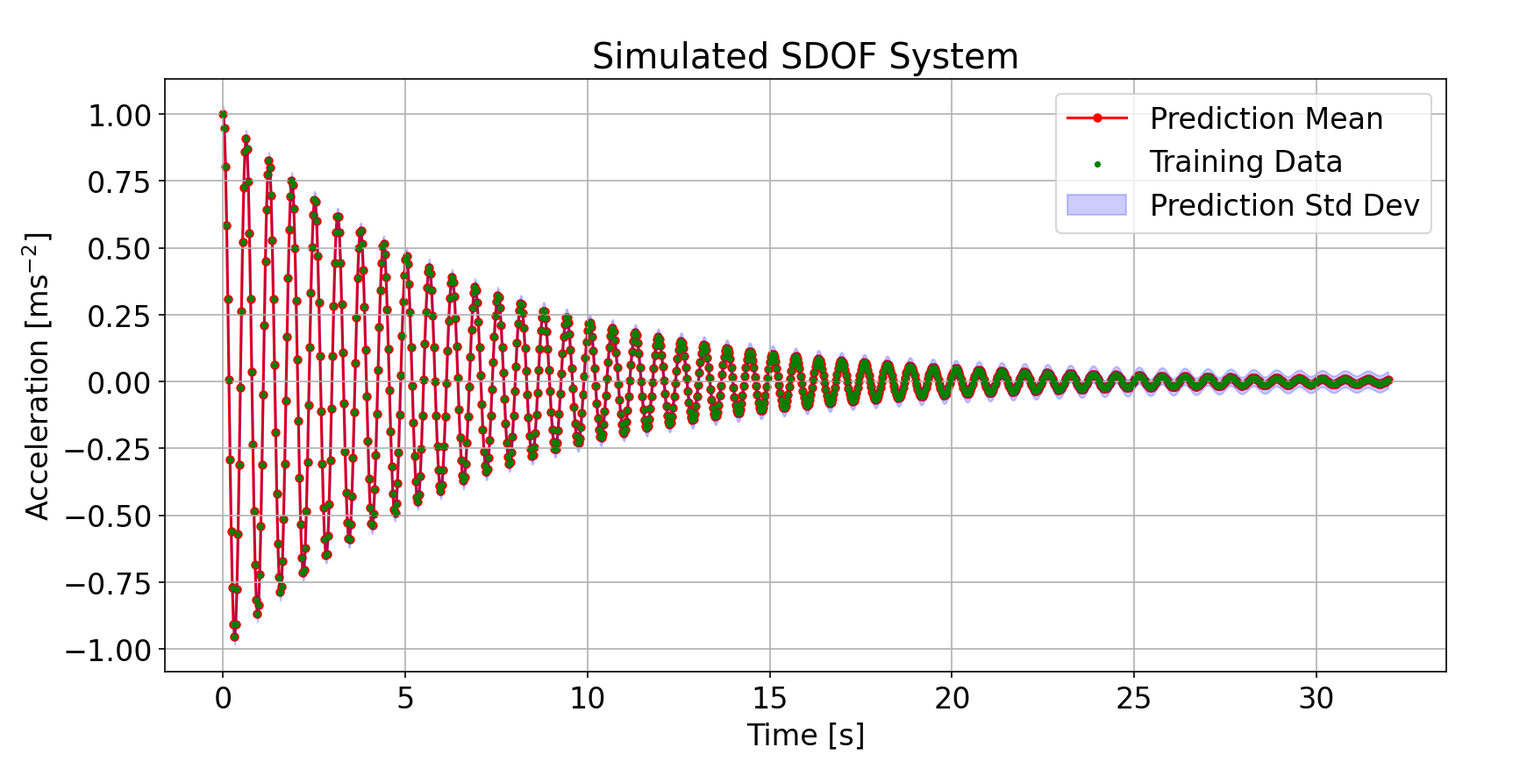
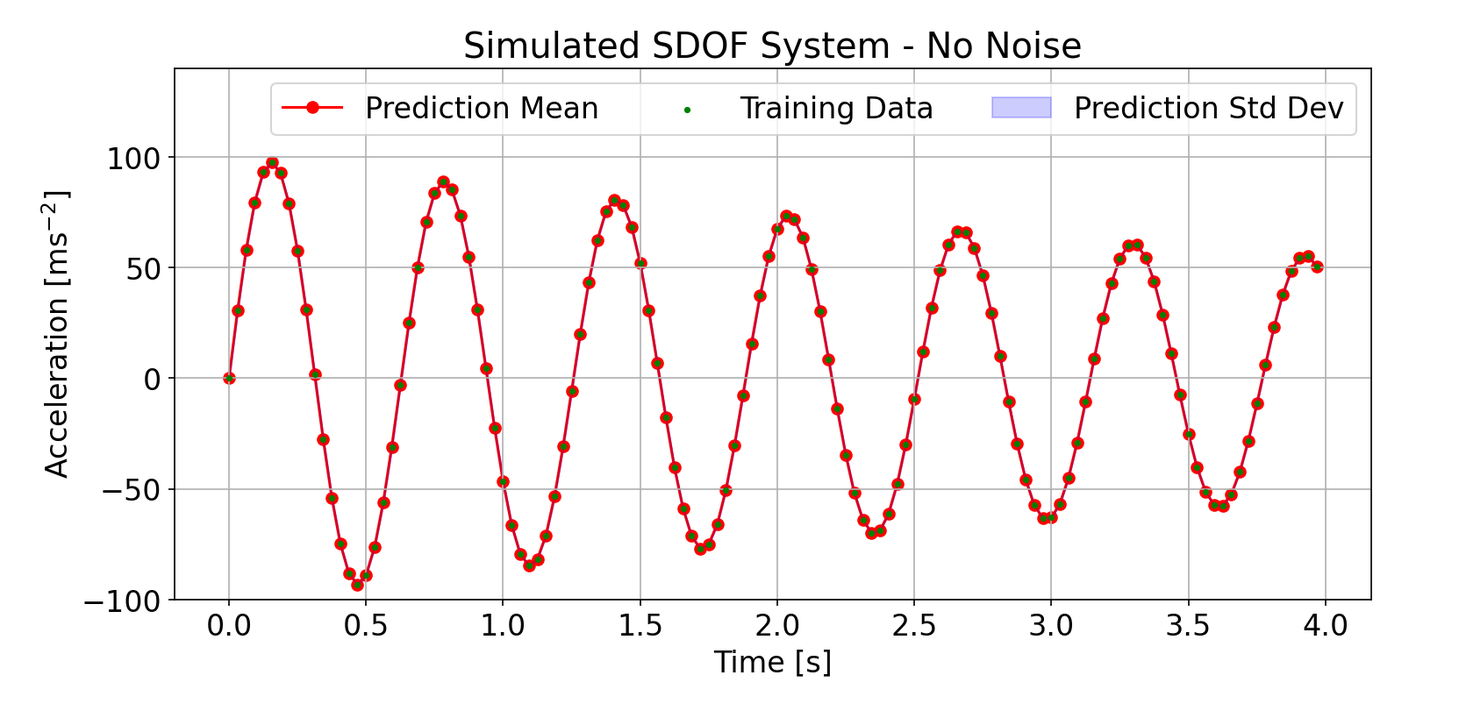
data replaced with new analytical fourier transforms

Changed region(s): [[0.0, 0.0305, 0.9507, 0.9768], [0.8894, 0.641, 0.9507, 0.7021], [0.0307, 0.2442, 0.0613, 0.2747]]

diff --git a/dissertation.tex b/dissertation.tex
@@ -99,6 +99,7 @@
 \usepackage{hyperref}
 \usepackage{hyperref}
 \usepackage{hyperref}
+\usepackage{hyperref}
 \counterwithin{figure}{section}
 \counterwithin{equation}{section}
 \counterwithin{table}{section}
@@ -362,8 +363,8 @@
     \nomenclature[G05]{$\boldsymbol{\Sigma}_{*\vert \mathbf{X}}$}{Conditional covariance of the Gaussian Process, given the training data, $\mathbf{X}$}
 
     Note that this GP is closed under the action of linear operators which means that it can be described using only a combination of operations that comply with the principle of superposition.
-    It is also defined in the continuous domain $(-\infty, \infty)$ so the Fourier Transform can be taken analytically without needing to resort to the discrete FFT\@.
-    Incredibly, since the Fourier Transform is also a linear operator~\cite{Jidling2017}, the result of this operation of the GP is yet another GP. The joint distribution of the two can therefore be written as shown in Equation~\ref{eq:linear-trans}
+    It is also defined in the continuous domain $(-\infty, \infty)$, so the Fourier Transform can be taken analytically without needing to resort to the discrete FFT\@.
+    Incredibly, since the Fourier Transform is a linear operator~\cite{Jidling2017}, the result of this operation on the GP is yet another GP. The joint distribution of the two can therefore be written as shown in Equation~\ref{eq:linear-trans}
 
     \begin{equation}
         \left[
@@ -393,9 +394,9 @@
     Like before, this distribution can be conditioned to find the conditional mean and covariance of the Fourier Transform at a specific set of desired frequencies, given the training data, $\mathbf{X}$.
 
 
-    Modelling signals in this way provides an inherent mechanism to account for uncertainty and allows this information to be preserved naturally in the covariance matrix when performing linear operations of the data.
+    Modelling signals in this way provides an inherent mechanism to account for uncertainty and allows this information to be preserved naturally in the covariance matrix when performing linear operations on the data.
     Furthermore, the noise term  $\epsilon_j \sim \mathcal{N}(0, \sigma^2_y)$ explicitly models the observational noise, giving the GP a way to distinguish between the signal and noise components.
-    This means that the use of probabilistic numerics may be advantageous since it could allow for Fourier Transform and other linear operators to be performed with better robustness to noise.
+    This means that the use of probabilistic numerics may allow better identification of dynamic systems since it may allow for Fourier Transform  (which such identification uses extensively) to be performed with better robustness to noise.
 
     \section{Aims and Objectives}
     \subsection{Aim}
@@ -419,24 +420,33 @@
     \section{Creating the Gaussian Process Model}
     The first objective was completed by implementing the Gaussian Process (GP) model in the programming language Python.
     \subsection{The Data}
-    To test the functionality of the GP model during its creation, a prototypical time series dataset was required.
-    For this, previously collected turbine tap test data~\cite{MEC326} was used.
-    Note that the data was collected empirically as opposed to being simulated in order to test that the GP has practical applications for fitting real life data which may have contained unforeseen complexities that may have been otherwise forgotten.
-    For example, since all real systems exhibit some form of damping, the magnitude of the vibrations decay over time.
-    However, if data was simulated, this behaviour may have been neglected, and a stationary signal may have been used instead, therefore, the performance of the GP's ability to fit real life data could not be tested.
+    Initially, training data was required to test the fit of the GP model during its creation.
+    For this, the acceleration of a single degree of freedom (SDOF) system in free vibration in the time domain was used.
+    If this data was collected experimentally, some noise would always be present, so instead it was simulated instead with system parameters $M = 1 \, kg$; $C = 0.3 \, Nsm^{-1}$; $K = 100 \, Nm^{-1}$.
+    This allowed the levels of noise to be reduced to zero, as shown in the plot of ``Training Data'' in Figure~\ref{fig:basic-data-time-domain}, to allow for a broader range of test cases.
 
-    The test data consisted of accelerometer data from the tip of a hammer as well as a single location on a turbine blade when struck at $10$ positions.
-    This was sampled at a rate of $16,384 Hz$ for just under $4$ seconds.
-    For simplicity, only the response data at the first position was imported, and initially a small set of $100$ samples was selected from the centre (to reduce computation time).
-    This time series acceleration data, as shown in the ``Force Response Over Time'' plot in Figure~\ref{fig:input-response-plot}, was used as training data to be fit by the GP\@.
 
-    \begin{figure}[ht]
+%    \begin{equation}
+%        \ddot{x}(t) = -X e^{-\zeta \xi_n t} \xi_n^2 \cos(\xi_d t + \phi) \label{eq:sdof-free-vib}
+%    \end{equation}
+%
+%    \noindent Where $\ddot{x}(t) is the acceleration$
+
+    \textcolor{red}{add equation of motion??}
+
+%    \begin{figure}[ht]
+%        \centering
+%        \includegraphics[width=1.0\linewidth]{figures/input-response-plot/input-response-plot.png}
+%        \caption{The time series training data, and the mean and standard deviation of the GPs prediction of its latent function. Note that the prediction functions are continuous but must be evaluated at a discrete set of points in order to be plotted.}
+%        \label{fig:input-response-plot}
+%    \end{figure}
+
+    \begin{figure}[h]
         \centering
-        \includegraphics[width=1.0\linewidth]{figures/input-response-plot/input-response-plot.png}
-        \caption{The time series training data, and the mean and standard deviation of the GPs prediction of its latent function. Note that the prediction functions are continuous but must be evaluated at a discrete set of points in order to be plotted.}
-        \label{fig:input-response-plot}
+        \includegraphics[width=1.0\linewidth]{figures/basic-data-time-domain/basic-data-time-domain.png}
+        \caption{The basic training dataset of time domain acceleration of a simulated SDOF system consisting of $128$ datapoints at a sample rate of $32 \, Hz$ using system parameters $M = 1 \, kg$; $C = 0.3 \, Nsm^{-1}$; $K = 100 \, Nm^{-1}$ with no noise added, and the time domain prediction functions of the GP model fit to this data.}
+        \label{fig:basic-data-time-domain}
     \end{figure}
-
 
 
     \subsection{The Kernel}
@@ -476,17 +486,26 @@
     This allowed the algorithm to explore after reaching a minimum to potentially find another part of the NLML function that was lower.
 
     \subsection{Predict Function}
-    The predict function was constructed, which accurately calculated the mean and standard deviation of the latent function as shown by the ``Prediction Mean'' and ``Prediction Std Dev'' plots in Figure~\ref{fig:input-response-plot} respectively.
+    The predict function was constructed, which accurately calculated the mean and standard deviation of the latent function as shown by the ``Prediction Mean'' and ``Prediction Std Dev'' plots in Figure~\ref{fig:basic-data-time-domain} respectively.
     The mean of each prediction point is calculated using Equation~\ref{eq:18.52} directly, whereas the standard deviation of each point uses only the main diagonal of the covariance matrix resulting from Equation~\ref{eq:18.53}, which is square rooted in order to find the standard deviation.
     In combination, this predict function defines the probability distribution of the value of the latent function at any point, given the training data.
-    Hence, when Gaussian noise was added to the training data, the standard deviation of the prediction became larger to take account for the uncertainty created by this noise, as shown in Figure~\ref{fig:input-response-noise}.
+    Hence, when Gaussian noise ($\sim \mathcal{N}(0, 25^{2})$) was added to the training data, the standard deviation of the prediction became larger to take account for the uncertainty created by this noise, as shown in Figure~\ref{fig:noisy-data-time-domain}.
 
-    \begin{figure}[ht]
+%    \begin{figure}[ht]
+%%        \centering
+%%        \includegraphics[width=1.0\linewidth]{figures/input-response-noise/input-response-noise.png}
+%%        \caption{The mean and standard deviation of the prediction function of the GP when noise was added to the training data, showing that the standard deviation of the prediction increases when noise is added.}
+%%        \label{fig:input-response-noise}
+%%    \end{figure}
+
+
+    \begin{figure}[h]
         \centering
-        \includegraphics[width=1.0\linewidth]{figures/input-response-noise/input-response-noise.png}
-        \caption{The prediction functions of the GP when noise was added to the training data, showing that the standard deviation of the prediction increased compared to Figure~\ref{fig:input-response-plot}.}
-        \label{fig:input-response-noise}
+        \includegraphics[width=1.0\linewidth]{figures/noisy-data-time-domain/noisy-data-time-domain.png}
+        \caption{The mean and standard deviation of the prediction function of the GP when noise was added to the training data, showing that the standard deviation of the prediction increases.}
+        \label{fig:noisy-data-time-domain}
     \end{figure}
+
 
     \section{Adjusting the Model for the Frequency Domain}
 
@@ -561,26 +580,20 @@
 
     \section{Results and discussion}
     After this Gaussian Process Model was complete, it could then be setup and used in a variety of test cases to explore its advantages and disadvantages versus the Fast Fourier Transform.
-
-    Here, the test data was constructed from the time domain acceleration of a simulated single degree of freedom (SDOF) system in free vibration because the system properties and the exact Fourier Transform of the latent function could be calculated analytically using the system parameters.
-    Since these were exact and known to be mathematically correct, they could be used to test how well the GP calculated them, using the performance of the FFT (using a Hanning window) on the same data as a benchmark.
+    The dataset used to do this was from the model of the acceleration of the SDOF system in free vibration from Figure~\ref{fig:basic-data-time-domain}.
+    The number of datapoints was extended to 1024 (at the same sample rate of $32 \, Hz$) to provide more information, allowing for more accurate results.
 
     \subsection{Basic Dataset}
-    \subsection{Accuracy of the Fourier Transform} \label{Acc}
-    The accuracy of the Fourier Transform computed by the GP was first compared to that of the FFT algorithm using a basic dataset of a free vibration SDOF system with damping, but with no noise added to validate the new approach of computing the Fourier Transform.
-    The dataset, along with the time domain the prediction functions of the GP model fit to this data are shown in Figure~\ref{fig:basic-data-time-domain}.
-
-    \begin{figure}[ht]
-        \centering
-        \includegraphics[width=1.0\linewidth]{figures/basic-data-time-domain/basic-data-time-domain.png}
-        \caption{The basic training dataset of time domain acceleration of a simulated SDOF system consisting of $1024$ datapoints at a sample rate of $32 \, Hz$ using system parameters $M = 1 \, kg$; $C = 0.3 \, Nsm^{-1}$; $K = 100 \, Nm^{-1}$ with no noise added, and the time domain prediction functions of the GP model fit to this data.}
-        \label{fig:basic-data-time-domain}
-    \end{figure}
-
-    The Fourier Transform of the GP's prediction mean, as well as the FFT and the analytical Fourier Transform were calculated.
+    \subsubsection{Accuracy of the Fourier Transform} \label{Acc}
+    Initially, no noise was added to validate the new approach of computing the Fourier Transform.
+    Since the dataset was simulated using known parameters, the exact Fourier Transform of the latent function could be calculated analytically.
+    This could be used to test the accuracy of the GP model, using the performance of the FFT (with a Hanning window) on the same system as a benchmark.
+    Here, the Fourier Transform of the GP's prediction mean, as well as the FFT and the analytical Fourier Transform were calculated.
     Since the Fourier Transform is complex, to show it fully in a graph, it must be broken down into two components - either into its magnitude and phase, or into its real and imaginary parts.
     Both representations are shown for each of the three variants of the Fourier Transform in Figure~\ref{fig:basic-data-freq-domain}.
+
     \afterpage{
+        \clearpage
         \begin{landscape}
             \begin{figure}[p]
                 \centering
@@ -596,7 +609,7 @@
     From observation of the magnitude plots, the GP Fourier Transform seems to more smoothly reach the peak, which resembles the shape of the analytical Fourier Transform more closely than the FFT.
     This suggests that it captures information relating to damping better, likely because the FFT's Hanning window would distort the signal's exponential decay in the time domain from the damping dissipating energy over time.
     Since the mean of the GP was sampled in the frequency domain in the same places as the FFT, the angular frequency of the peak - as measured by the sample with the largest magnitude - was identical, $10.01 \, rad \, s^{-1}$, within one sample interval of the analytical peak of $10.00 \, rad \, s^{-1}$.
-    The percentage error in the magnitude of the peaks was $22.7 \, \%$ and $54.4 \, \%$ for the FFT and GP model respectively.
+    The percentage error in the magnitude of the peaks was $22.7 \, \%$ and $53.5 \, \%$ for the FFT and GP model respectively.
 
     Next, the Mean Squared Error (MSE) was used to compare the accuracy (lower is better) of each of the FFT and the Fourier Transform of the GP's prediction mean with respect to the analytically exact Fourier Transform.
     This algorithm finds the average of the squares of the differences between the points at each index position of two series, as shown in Equation~\ref{eq:mse}.
@@ -607,33 +620,111 @@
 
     \noindent where $a_i$, $b_i$ are the values of vectors $\mathbf{A}$, $\mathbf{B}$ at index i.
 
-    The MSE for the components of each of the two numerical methods is shown in Table~\ref{tab:basic-mse}, where the error of the GP model was between $4.1 \, \%$ and $64.0 \, \%$ larger than that of the FFT.
+    The MSE for the magnitude component, as well as the real and imaginary parts of each of the two numerical methods is shown in Table~\ref{tab:basic-mse}, where the error of the magnitude GP model's Fourier transform was $1.22$ times larger than that of the FFT, but error real and imaginary parts were $4.42$ and $12.66$ times smaller respectively.
 
-    \begin{table}[h]
+    \begin{table}[H]
         \centering % This centers the table on the page
         \setlength{\arrayrulewidth}{1pt} % Sets the thickness of the table borders
         \begin{tabular}{|c|c|c|} % 'c' for centered columns, '|' for vertical lines between columns
             \hline
             Basic Dataset & FFT & GP FT Mean \\ % Titles for the columns
             \hline
-            Magnitude MSE [ms$^{-2}$] & $1.11 \times 10^{-4}$ & $1.70 \times 10^{-4}$ \\ % First row
+            Magnitude MSE [ms$^{-2}$] & $2.09$ & $2.55$ \\
             \hline
-            Phase MSE [rad] & $5.59$ & $5.82$ \\ % Second row
+            Real Part MSE [ms$^{-2}$] & $7.59$ & $1.72$ \\
             \hline
-            Real Part MSE [ms$^{-2}$] & $5.98 \times 10^{-4}$ & $9.56 \times 10^{-4}$ \\ % Third row
-            \hline
-            Imag Part MSE [ms$^{-2}$] & $5.00 \times 10^{-4}$ & $8.20 \times 10^{-4}$ \\ % Fourth row
+            Imag Part MSE [ms$^{-2}$] & $10.57$ & $0.83$ \\
             \hline
         \end{tabular}
         \caption{A table showing the Mean Squared Error (MSE) for the components of both the FFT, and the Fourier Transform of the GP's prediction mean when compared to the analytically exact Fourier Transform for the basic dataset.}
         \label{tab:basic-mse}
     \end{table}
 
+    Note that the MSE of the phase was not computed because numerical instabilities had a large effect in its values when the real and imaginary components were near zero, so it wouldn't have been meaningful.
+    But overall, the performance of the GP model was comparable to the FFT, since neither was superior in every metric.
+    Therefore, the GP model was shown to be a valid alternative to the FFT\@.
 
-    Although these results show that the GP model performed slightly worse, the error was of the same order of magnitude, which shows that the Fourier Transform of the mean of the GP prediction function is a valid alternative to the FFT\@.
+    \subsection{Robustness to Noise}
+    The robustness to noise was tested (Objective~\ref{noise-resilience}) by calculating the MSE of the two methods when zero mean Gaussian noise with a standard deviation of $25 \, ms^{-2}$ was added to the signal.
+    The components of the Fourier Transforms are shown in Figure~\ref{fig:noisy-data-freq-domain}.
 
+    \afterpage{
+        \clearpage
+        \begin{landscape}
+            \begin{figure}[p]
+                \centering
+                \includegraphics[width=\linewidth]{figures/noisy-data-freq-domain/noisy-data-freq-domain.png}
+                \caption{The analytical Fourier Transform, FFT and the Fourier Transform of the GP's prediction mean when Gaussian noise with a standard deviation of $0.25 \, ms^{-2}$ was added to the signal, broken down into the magnitude and phase components, as well as the real and imaginary components.}
+                \label{fig:noisy-data-freq-domain}
+            \end{figure}
+        \end{landscape}
+        \clearpage
+    }
 
-    \subsubsection{Fourier Transform of the Covariance}
+    Table~\ref{tab:response-noise} shows that the GP model performed significantly better here, with the error of the magnitude, real part and imaginary part of the GP model's Fourier transform being $9.66$, $6.48$ and $11.64$ times smaller than the FFT respectively.
+
+    \begin{table}[h]
+        \centering % This centers the table on the page
+        \setlength{\arrayrulewidth}{1pt} % Sets the thickness of the table borders
+        \begin{tabular}{|c|c|c|} % 'c' for centered columns, '|' for vertical lines between columns
+            \hline
+            Noisy Dataset & FFT & GP FT Mean \\ % Titles for the columns
+            \hline
+            Magnitude MSE [ms$^{-2}$] & $22.80$ & $2.36$ \\
+            \hline
+            Real Part MSE [ms$^{-2}$] & $22.88$ & $3.53$ \\
+            \hline
+            Imag Part MSE [ms$^{-2}$] & $27.94$ & $2.40$ \\
+            \hline
+        \end{tabular}
+        \caption{A table showing the Mean Squared Error (MSE) for the components of both the FFT, and the Fourier Transform of the GP's prediction mean when compared to the analytically exact Fourier Transform when Gaussian noise with a standard deviation of $0.25 \, ms^{-2}$ was added to the signal.}
+        \label{tab:response-noise}
+    \end{table}
+
+    Furthermore, the magnitude of the peak was found more accurately by the GP model in this case, with a percentage error of $15.8 \, \%$ versus $38.1 \, \%$ for the FFT, with no change in the angular frequency of the peak for either method.
+
+    A Fourier Transform that is more robust to noise would be more accurate for noisy real world data and therefore would have widespread benefits in mechanical engineering because it would allow for more accurate Frequency Response Functions (FRFs) of structures, and therefore more accurate identification of system properties.
+    After the FRF of a structure, such as a wind turbine tower, is determined, it can be evaluated with the same forces that the system is expected to experience to predict the maximum amplitude of vibration expected during its lifetime.
+    If this is excessive, the system is at risk of mechanical failure so the design can be changed to prevent this.
+    For example, the mass could be changed to move the resonant frequency away from the expected forcing frequency, reducing the expected amplitude of oscillation.
+    Alternately, damping could be added to smooth out the resonance peak, reducing its amplitude.
+    Therefore, being able to more accurately determine the FRF and the properties of its peaks through this new GP method would be beneficial in the design process because one would be able to more accurately determine how much the design needs to occur (if at all) to reduce the risk of failure to acceptable levels.
+
+    \subsection{Non-uniform Sampling of Frequency Domain}
+    Since the Fourier Transform is a continuous function, it can be sampled at any set of points in the domain $(-\infty, \infty)$.
+     So, taking the basic dataset and clustering an additional $100$ samples of the spectrum of the GP in the interval of $1 \, rad \, s^{-1}$ containing the peak was able to improve the error in the calculation of the angular frequency of the peak from the same as the FFT ($0.0149 \, rad \, s^{-1}$) down to $0.0039 \, rad \, s^{-1} $.
+    However, the error in the magnitude of the peak ($54.2 \, \%$) was still larger than that of the FFT ($22.68 \, \%$)
+    If the time domain GP was an exact fit to the latent function, as the interval of angular frequency between samples around the peak tended to zero, so would this error.
+    This is not possible with the FFT because the location of the spectrum samples are determined by the time domain samples, both of which must be evenly spaced, meaning that spectrum samples could fall either side of a sharp peak, which creates an uncertainty of $\pm$ half the sample interval.
+
+    Furthermore, since the frequency interval is inversely proportional to the total time period, the difference between the error of the peak of the GP model and the FFT is more pronounced for data over a shorter time period.
+    For instance, using only the first 64 points of the same dataset gave the FFT an error in the angular frequency of the peak of $0.574 \, rad \, s^{-1}$ versus $0.054 \, rad \, s^{-1}$ for the GP model, a significant difference.
+    In addition, the error in the magnitude of the peak ($60.64 \, \%$) even beat that of the FFT ($685 \, \%$), which performed very poorly for this short dataset.
+    This means that this proposed GP model may be better suited for use cases in which there is limited time for testing, such as in the aforementioned example of hypersonic wind tunnel tests of scramjets.
+
+    \subsection{Non-Uniform Sampling of the Time Domain and Overcoming Aliasing and the Nyquist Limit}
+    Similarly, the time domain input data need not be uniformly spaced in order to fit the GP\@.
+    This would allow the model to be used to find the Fourier Transform of datasets with missing data, which may occur, for example, if an accelerometer placed on a gas turbine engine during a test failed to transmit data for a period of time due to a loose connection.
+    If enough data was still present to faithfully represent the system, the GP would not be significantly affected which would allow the test data to still be used, whereas if the standard FFT was used, the test would either need to repeated at added cost, or additional steps would be needed to preprocess the data, adding complication.
+
+    However, more impressively, this feature allows frequencies to be detected that would be above the Nyquist limit for the DFT with the same number of datapoints over the same sampling period.
+    This is because for a given time period and number of samples available, many can be bunched in a portion of the time period in order to capture the behaviour of high frequency signal components, leaving a few points over a longer period of time to capture damping information related to the exponential decay of the signal well.
+    For example, using an SDOF system with parameters $M = 1 \, kg$; $C = 0.3 \, Nsm^{-1}$; $K = 20,000 \, Nm^{-1}$, the GP model fit to $1024$ datapoints sampled randomly with a triangular distribution over a period of $32$ seconds detected the peak at $141.4 \, rad \, s^{-1}$ with an error of less than $0.1 \, rad \, s^{-1}$.
+    The FFT of an equivalent dataset containing the same number of datapoints sampled evenly over the same time period for the same system has a peak at $59.7 \, rad \, s^{-1}$, which is an artifact of aliasing caused by the peak being reflected about the Nyquist limit of $100.5 \, rad \, s^{-1}$.
+
+    This feature of the GP model could be used in contexts where the identification of high frequencies as well as damping information is required, but there are tight constraints on memory such as in the aerospace industry.
+    Here, a microsatellite must monitor the heavy vibration it experiences on ascent to orbit to ensure the components onboard haven't exceeded their structural limits, which could indicate damage.
+    This would likely include Fourier analysis of accelerometer data to monitor vibration in the frequency domain.
+    However, the memory available to do this is limited because storage capacity has weight, every gram of which significantly increases the fuel requirements and cost to get the satellite to orbit.
+    Therefore, this ability to detect higher frequencies than an equivalent FFT using the same amount of data and memory would be valuable here.
+
+    \subsection{Computation Time}
+    However, one major disadvantage of this GP model is that the computation time scales poorly with large datasets, especially the hyperparameter training phase since it is of $O(N^3)$\nomenclature[L20]{$O()$}{Big O notation, used to describe the complexity - or ``order'' of an algorithm}, which is poor compared to $O(N \log{N})$ for the Fast Fourier Transform (FFT).
+    This means that the model handles poorly datasets consisting of more than a few thousand points, and even at this scale, fitting the GP to the time domain then converting this to the frequency domain takes several orders of magnitude longer ($0.84 \, s$) than the time the FFT ($7.5 \times 10^{-5}s$) takes run.
+    This performance is poor considering that it is not uncommon to need to work with datasets consisting of up to a million datapoints in industry, such as during a tap test for modal analysis of a turbine blade, for which the GP model in its current state would be unsuitable due to the excessive time and cost computational resources that would be required.
+
+    \section{Directions for Future Work}
+    \subsection{Fourier Transform of the Covariance}
     Unlike the DFT, the GP provides some uncertainty data the standard deviation of the prediction of the spectrum can be found using the GP\@.
     This is derived from the main diagonal of the covariance matrix and is always positive and real (see Mercer's theorem~\cite{rasmussen2006gaussian}, p.96), meaning that its phase is always zero.
     Note that since each amplitude prediction is a Gaussian distribution, which extends infinitely in both directions, some portion of the distribution will always fall below zero.
@@ -654,87 +745,6 @@
     This spike around zero makes intuitive sense because the amplitude of very low frequencies, the number of cycles they will experience in a given time period will tend to zero so there will be limited data to deduce the magnitude.
     However,...
     The fact that the standard deviation frequency domain amplitude predictions are near zero for all other frequencies suggests that the Fourier Transform is defined precisely, although the accuracy depends on how well the GP fits the time domain data.}
-
-    \subsection{Robustness to Noise}
-    The robustness to noise was tested (Objective~\ref{noise-resilience}) by calculating the MSE of the two methods when zero mean Gaussian noise with a standard deviation of $0.25 \, ms^{-2}$ was added to the signal.
-    The components of the Fourier Transforms are shown in Figure~\ref{fig:noisy-data-freq-domain}.
-
-    \afterpage{
-        \begin{landscape}
-            \begin{figure}[p]
-                \centering
-                \includegraphics[width=\linewidth]{figures/noisy-data-freq-domain/noisy-data-freq-domain.png}
-                \caption{The analytical Fourier Transform, FFT and the Fourier Transform of the GP's prediction mean when Gaussian noise with a standard deviation of $0.25 \, ms^{-2}$ was added to the signal, broken down into the magnitude and phase components, as well as the real and imaginary components.}
-                \label{fig:noisy-data-freq-domain}
-            \end{figure}
-        \end{landscape}
-        \clearpage
-    }
-
-    Table~\ref{tab:response-noise} shows that the GP model performed significantly better here, with the MSE of the magnitude of the FFT being larger than that of the GP by a factor of 6.8.
-
-    \begin{table}[h]
-        \centering % This centers the table on the page
-        \setlength{\arrayrulewidth}{1pt} % Sets the thickness of the table borders
-        \begin{tabular}{|c|c|c|} % 'c' for centered columns, '|' for vertical lines between columns
-            \hline
-            Noisy Dataset & FFT & GP FT Mean \\ % Titles for the columns
-            \hline
-            Magnitude MSE [ms$^{-2}$] & $2.94 \times 10^{-3}$ & $4.33 \times 10^{-4}$ \\ % First row
-            \hline
-            Phase MSE [rad] & $12.1$ & $11.5$ \\ % Second row
-            \hline
-            Real Part MSE [ms$^{-2}$] & $2.03 \times 10^{-3}$ & $9.09 \times 10^{-4}$ \\ % Third row
-            \hline
-            Imag Part MSE [ms$^{-2}$] & $2.20 \times 10^{-3}$ & $7.44 \times 10^{-4}$ \\ % Fourth row
-            \hline
-        \end{tabular}
-        \caption{A table showing the Mean Squared Error (MSE) for the components of both the FFT, and the Fourier Transform of the GP's prediction mean when compared to the analytically exact Fourier Transform when Gaussian noise with a standard deviation of $0.25 \, ms^{-2}$ was added to the signal.}
-        \label{tab:response-noise}
-    \end{table}
-
-    Furthermore, the magnitude of the peak was found more accurately by the GP model in this case, with a percentage error of $7.4 \, \%$ versus $9.3 \, \%$ for the FFT, with no change in the angular frequency of the peak for either method.
-
-    A Fourier Transform that is more robust to noise would be more accurate for noisy real world data and therefore would have widespread benefits in mechanical engineering because it would allow for more accurate Frequency Response Functions (FRFs) of structures, and therefore more accurate identification of system properties.
-    After the FRF of a structure, such as a wind turbine tower, is determined, it can be evaluated with the same forces that the system is expected to experience to predict the maximum amplitude of vibration expected during its lifetime.
-    If this is excessive, the system is at risk of mechanical failure so the design can be changed to prevent this.
-    For example, the mass could be changed to move the resonant frequency away from the expected forcing frequency, reducing the expected amplitude of oscillation.
-    Alternately, damping could be added to smooth out the resonance peak, reducing its amplitude.
-    Therefore, being able to more accurately determine the FRF and the properties of its peaks through this new GP method would be beneficial in the design process because one would be able to more accurately determine how much the design needs to occur (if at all) to reduce the risk of failure to acceptable levels.
-
-    \subsection{Non-uniform Sampling of Frequency Domain}
-    Since the Fourier Transform is a continuous function, it can be sampled at any set of points in the domain $(-\infty, \infty)$.
-     So, taking the basic dataset and clustering an additional $100$ samples of the spectrum of the GP in the interval of $1 \, rad \, s^{-1}$ containing the peak was able to improve the error in the calculation of the angular frequency of the peak from the same as the FFT ($0.0149 \, rad \, s^{-1}$) down to $0.0062 \, rad \, s^{-1} $.
-    If the time domain GP was an exact fit to the latent function, as the interval of angular frequency between samples around the peak tended to zero, so would this error.
-    This is not possible with the FFT because the location of the spectrum samples are determined by the time domain samples, both of which must be evenly spaced, meaning that spectrum samples could fall either side of a sharp peak.
-    This creates an uncertainty of $\pm$ half the sample interval.
-
-    Furthermore, since the frequency interval is inversely proportional to the total time period, the difference between the error of the peak of the GP model and the FFT is more pronounced for data over a shorter time period.
-    For instance, using only the first 64 points of the same dataset gave the FFT an error in the angular frequency of the peak of $0.574 \, rad \, s^{-1}$ versus $0.036 \, rad \, s^{-1}$ for the GP model, a significant difference.
-    This means that this proposed GP model may be better suited for use cases in which there is limited time for testing, such as in the aforementioned example of hypersonic wind tunnel tests of scramjets.
-
-    \subsection{Non-Uniform Sampling of the Time Domain and Overcoming Aliasing and the Nyquist Limit}
-    Similarly, the time domain input data need not be uniformly spaced in order to fit the GP\@.
-    This would allow the model to be used to find the Fourier Transform of datasets with missing data, which may occur, for example, if an accelerometer placed on a gas turbine engine during a test failed to transmit data for a period of time due to a loose connection.
-    If enough data was still present to faithfully represent the system, the GP would not be significantly affected which would allow the test data to still be used, whereas if the standard FFT was used, the test would either need to repeated at added cost, or additional steps would be needed to preprocess the data, adding complication.
-
-    However, more impressively, this feature allows frequencies to be detected that would be above the Nyquist limit for the DFT with the same number of datapoints over the same sampling period.
-    This is because for a given time period and number of samples available, many can be bunched in a portion of the time period in order to capture the behaviour of high frequency signal components, leaving a few points over a longer period of time to capture damping information related to the exponential decay of the signal well.
-    For example, using an SDOF system with parameters $M = 1 \, kg$; $C = 0.3 \, Nsm^{-1}$; $K = 20,000 \, Nm^{-1}$, the GP model fit to $1024$ datapoints sampled randomly with a triangular distribution over a period of $32$ seconds detected the peak at $141.4 \, rad \, s^{-1}$.
-    The FFT of an equivalent dataset containing the same number of datapoints sampled evenly over the same time period for the same system has a peak at $59.7 \, rad \, s^{-1}$, which is an artifact of aliasing caused by the peak being reflected about the Nyquist limit of $100.5 \, rad \, s^{-1}$.
-
-    This feature of the GP model could be used in contexts where the identification of high frequencies as well as damping information is required, but there are tight constraints on memory such as in the aerospace industry.
-    Here, a microsatellite must monitor the heavy vibration it experiences on ascent to orbit to ensure the components onboard haven't exceeded their structural limits, which could indicate damage.
-    This would likely include Fourier analysis of accelerometer data to monitor vibration in the frequency domain.
-    However, the memory available to do this is limited because storage capacity has weight, every gram of which significantly increases the fuel requirements and cost to get the satellite to orbit.
-    Therefore, this ability to detect higher frequencies than an equivalent FFT using the same amount of data and memory would be valuable here.
-
-    \subsection{Computation Time}
-    However, one major disadvantage of this GP model is that the computation time scales poorly with large datasets, especially the hyperparameter training phase since it is of $O(N^3)$\nomenclature[L20]{$O()$}{Big O notation, used to describe the complexity - or ``order'' of an algorithm}, which is poor compared to $O(N \log{N})$ for the Fast Fourier Transform (FFT).
-    This means that the model handles poorly datasets consisting of more than a few thousand points, and even at this scale, fitting the GP to the time domain then converting this to the frequency domain takes several orders of magnitude longer ($0.84 \, s$) than the time the FFT ($7.5 \times 10^{-5}s$) takes run.
-    This performance is poor considering that it is not uncommon to need to work with datasets consisting of up to a million datapoints in industry, such as during a tap test for modal analysis of a turbine blade, for which the GP model in its current state would be unsuitable due to the excessive time and cost computational resources that would be required.
-
-    \section{Directions for Future Work}
 
     \subsection{Scaling to large data}
     Although this new Gaussian Process (GP) method of performing the Fourier Transform is promising, the fact that it scales to large datasets so poorly means that it is impractical in its current state.
